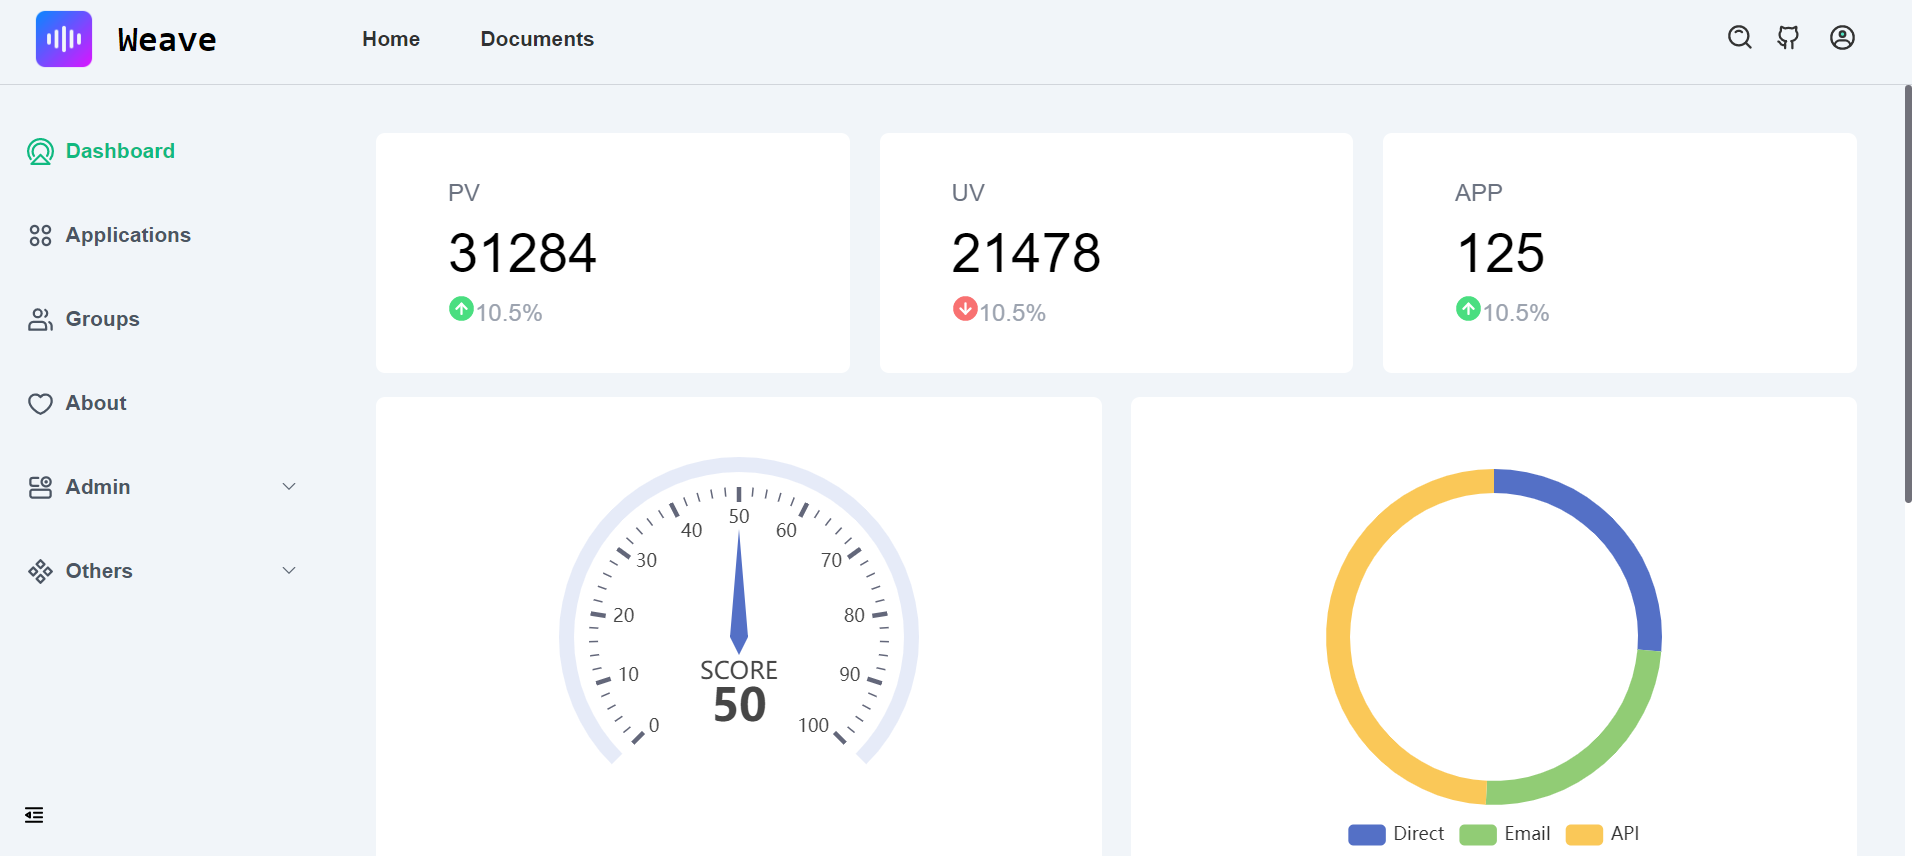
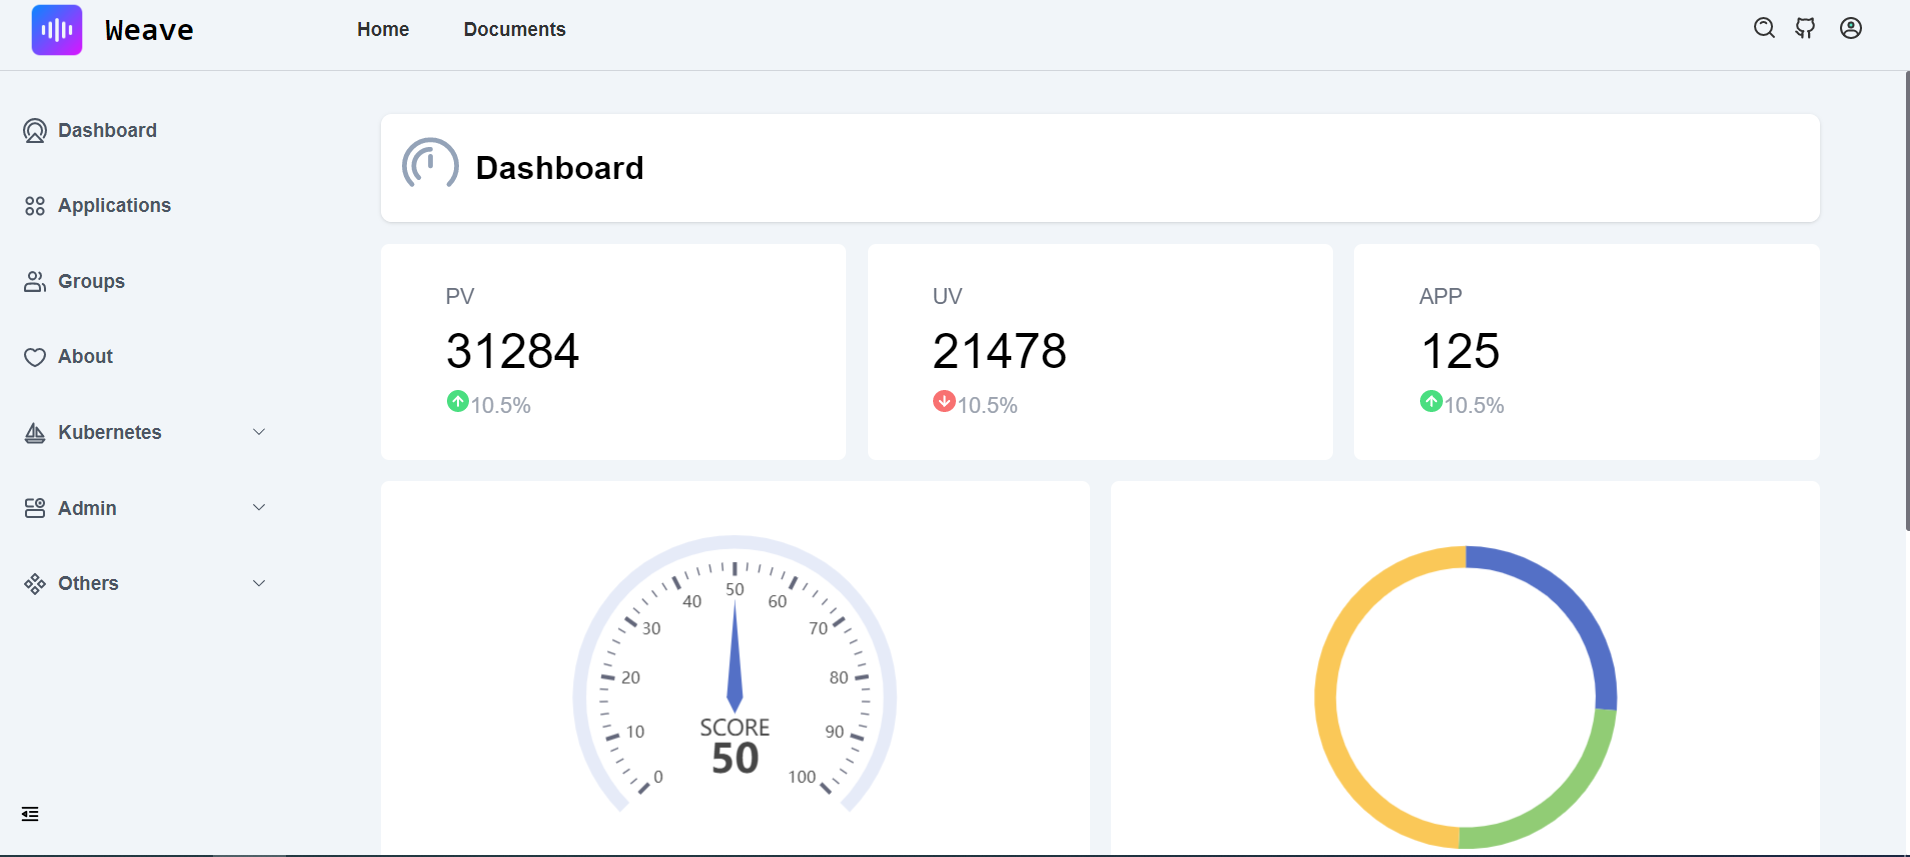
udapte some styles and doc

diff --git a/web/src/views/Dashboard.vue b/web/src/views/Dashboard.vue
@@ -1,33 +1,48 @@
 <template>
-  <div class="flex flex-wrap w-full h-full p-2rem pb-5rem justify-between">
-    <div class="w-32/100 h-10rem bg-white rounded-md mb-1rem" v-for="(item) in cards" :key="item.name">
-      <div class="flex w-full h-full px-3rem items-center">
-        <div class="flex-col w-6/10">
-          <div class="text-gray-500">{{ item.name }}</div>
-          <div class="text-4xl text-bold my-0.5rem">{{ item.value }}</div>
-          <div class="inline-flex items-center">
-              <arrow-circle-up v-if="item.up" theme="filled" size="18" fill="#4ade80"/>
-              <arrow-circle-down v-else theme="filled" size="18" fill="#f87171"/>
-              <span class="text-gray-400">{{ item.delta }}</span>
-          </div>
-        </div>
-        <div class="w-4/10  text-center">
-          <component :is="item.icon" theme="outline" size="48" :fill="item.iconColor" />
+  <div class="flex w-full">
+    <div class="flex flex-col w-full px-4rem py-2rem space-y-1rem">
+
+      <div class="flex overflow-hidden rounded-lg shadow">
+        <div class="flex w-full h-5rem bg-white items-center">
+          <Dashboard class="ml-1rem" theme="filled" size="42" fill="#94A3B8" />
+          <span class="m-0.75rem text-2xl font-600">Dashboard</span>
         </div>
       </div>
+      
+      <div class="flex w-full space-x-1rem">
+        <div class="flex w-1/3 h-10rem bg-white rounded-md" v-for="(item) in cards" :key="item.name">
+          <div class="flex w-full h-full px-3rem items-center">
+            <div class="flex-col w-6/10">
+              <div class="text-gray-500">{{ item.name }}</div>
+              <div class="text-4xl text-bold my-0.5rem">{{ item.value }}</div>
+              <div class="inline-flex items-center">
+                <arrow-circle-up v-if="item.up" theme="filled" size="18" fill="#4ade80" />
+                <arrow-circle-down v-else theme="filled" size="18" fill="#f87171" />
+                <span class="text-gray-400">{{ item.delta }}</span>
+              </div>
+            </div>
+            <div class="w-4/10 text-center">
+              <component :is="item.icon" theme="outline" size="48" :fill="item.iconColor" />
+            </div>
+          </div>
+        </div>
+      </div>
+
+      <div class="flex w-full space-x-1rem">
+        <div class="w-1/2 h-20rem bg-white rounded-md">
+          <v-chart class="w-full h-full" :option="gaugeOption" />
+        </div>
+
+        <div class="w-1/2 h-20rem bg-white rounded-md">
+          <v-chart class="w-full h-full" :option="pieOption" />
+        </div>
+      </div>
+
+      <div class="flex w-full h-20rem bg-white rounded-md">
+        <v-chart class="w-full h-full" :option="lineOption" />
+      </div>
+
     </div>
-
-    <div class="w-49/100 h-20rem bg-white rounded-md mb-1rem">
-      <v-chart class="w-full h-full" :option="gaugeOption" />
-     </div>
-
-     <div class="w-49/100 h-20rem bg-white rounded-md mb-1rem">
-      <v-chart class="w-full h-full" :option="pieOption" />
-     </div>
-
-    <div class="w-full h-20rem bg-white rounded-md mb-1rem">
-      <v-chart class="w-full h-full" :option="lineOption" />
-     </div>
   </div>
 </template>
 
@@ -46,8 +61,7 @@ import {
 } from "echarts/components";
 import VChart from "vue-echarts";
 import { ref } from "vue";
-import { Peoples, ArrowCircleUp, ArrowCircleDown } from '@icon-park/vue-next'
-import { IconPark } from '@icon-park/vue-next/es/all';
+import { ArrowCircleUp, ArrowCircleDown, Dashboard } from '@icon-park/vue-next'
 
 use([
   CanvasRenderer,
@@ -102,12 +116,12 @@ const lineOption = ref({
     {
       data: [150, 470, 392, 218, 135, 248, 290],
       type: 'line',
-      name: 'This Week' 
+      name: 'This Week'
     },
     {
       data: [234, 360, 410, 326, 291, 310, 341],
       type: 'line',
-      name: 'Last Week' 
+      name: 'Last Week'
     },
   ]
 });

diff --git a/web/src/views/kube/Namespace.vue b/web/src/views/kube/Namespace.vue
@@ -1,6 +1,6 @@
 <template>
   <div class="w-full flex justify-center">
-    <div class="flex flex-col w-full h-full mx-4rem my-2rem space-y-1rem">
+    <div class="flex flex-col w-full h-full px-4rem py-2rem space-y-1rem">
 
       <div class="flex overflow-hidden rounded-lg shadow-lg">
         <div class="flex w-full h-5rem bg-white items-center">
@@ -33,7 +33,7 @@
             </template>
           </el-dialog>
         </template>
-        <el-table :data="filter" class="w-full max-h-full">
+        <el-table :data="getItems(filter)" class="w-full max-h-full">
           <el-table-column prop="metadata.name" label="Name" />
           <el-table-column prop="metadata.labels['weave.io/group']" label="Group" />
           <el-table-column prop="metadata.annotations['weave.io/describe']" label="Describe" />
@@ -54,6 +54,15 @@
             </template>
           </el-table-column>
         </el-table>
+        <div class="flex w-full justify-center">
+          <el-pagination
+            :page-size="pageSize"
+            :pager-count="5"
+            layout="prev, pager, next"
+            :total="filter.length"
+            @current-change="currentPageChanged"
+          />
+        </div>
       </el-card>
     </div>
   </div>
@@ -77,14 +86,25 @@ const showCreate = ref(false);
 const showDelete = ref(-1);
 const newNamespace = ref({});
 
+const pageSize = ref(10);
+const currentPage = ref(1);
 const search = ref('');
 const filter = computed(() =>
   namespaces.value.filter(
-    (data) =>
-      !search.value ||
+    (data) => {
+      return !search.value ||
       data.metadata.name.toLowerCase().includes(search.value.toLowerCase())
+    }
   )
 )
+
+const getItems = (arr) => {
+  return arr.slice(pageSize.value * (currentPage.value - 1), pageSize.value * currentPage.value)
+}
+
+const currentPageChanged = (current) => {
+  currentPage.value = current
+}
 
 onMounted(
   () => {

diff --git a/web/src/views/kube/Pod.vue b/web/src/views/kube/Pod.vue
@@ -8,7 +8,7 @@
             <CodeEditor height="60vh" :value="logs" mode="log" readOnly light></CodeEditor>
         </el-dialog>
 
-        <div class="flex flex-col h-full mx-4rem my-2rem space-y-1rem">
+        <div class="flex flex-col h-full px-4rem py-2rem space-y-1rem">
             <div class="flex flex-col overflow-hidden rounded-lg shadow-lg">
                 <div class="flex w-full h-5rem bg-white items-center">
                     <CubeThree class="ml-1rem" theme="filled" size="42" fill="#94A3B8" />
@@ -147,6 +147,7 @@ const execPod = (row) => {
 const showLog = ref(false);
 const logs = ref();
 const logPod = (row) => {
+  logs.value = "";
   request.get(`/api/v1/namespaces/${currentNamespace.value}/pods/${row.metadata.name}/log`).then((response) => {
     logs.value = response.data
   })

diff --git a/web/src/views/kube/Service.vue b/web/src/views/kube/Service.vue
@@ -19,7 +19,7 @@
             </template>
         </el-dialog>
 
-        <div class="flex flex-col h-full mx-4rem my-2rem space-y-1rem">
+        <div class="flex flex-col h-full px-4rem py-2rem space-y-1rem">
             <div class="flex flex-col overflow-hidden rounded-lg shadow-lg">
                 <div class="flex w-full h-5rem bg-white items-center">
                     <CircularConnection class="ml-1rem" theme="filled" size="42" fill="#94A3B8" />

diff --git a/web/src/views/kube/Workload.vue b/web/src/views/kube/Workload.vue
@@ -10,7 +10,7 @@
             </template>
         </el-dialog>
 
-        <div class="flex flex-col h-full mx-4rem my-2rem space-y-1rem">
+        <div class="flex flex-col h-full px-4rem py-2rem space-y-1rem">
             <div class="flex flex-col overflow-hidden rounded-lg shadow-lg">
                 <div class="flex w-full h-5rem bg-white items-center">
                     <application-one class="ml-1rem" theme="filled" size="42" fill="#94A3B8" />

diff --git a/web/src/views/kube/Ingress.vue b/web/src/views/kube/Ingress.vue
@@ -19,7 +19,7 @@
             </template>
         </el-dialog>
 
-        <div class="flex flex-col h-full mx-4rem my-2rem space-y-1rem">
+        <div class="flex flex-col h-full px-4rem py-2rem space-y-1rem">
             <div class="flex flex-col overflow-hidden rounded-lg shadow-lg">
                 <div class="flex w-full h-5rem bg-white items-center">
                     <NetworkDrive class="ml-1rem" theme="filled" size="42" fill="#94A3B8" />

diff --git a/web/src/views/UserDetail.vue b/web/src/views/UserDetail.vue
@@ -1,6 +1,6 @@
 <template>
   <div class="w-full h-full flex justify-center">
-    <div class="flex flex-col w-full mx-4rem my-2rem space-y-1rem">
+    <div class="flex flex-col w-full px-4rem py-2rem space-y-1rem">
       <div class="flex flex-col overflow-hidden rounded-lg shadow-lg">
         <div class="flex w-full h-5rem bg-white items-center">
           <User class="ml-1rem" theme="filled" size="42" fill="#94A3B8" />

diff --git a/web/src/views/RBAC.vue b/web/src/views/RBAC.vue
@@ -1,6 +1,6 @@
 <template>
   <div class="w-full justify-center">
-    <div class="flex flex-col h-full mx-4rem my-2rem space-y-1rem">
+    <div class="flex flex-col h-full px-4rem py-2rem space-y-1rem">
       <div class="flex flex-col overflow-hidden rounded-lg shadow-lg">
         <div class="flex w-full h-5rem bg-white items-center">
           <ListView class="ml-1rem" theme="filled" size="42" fill="#94A3B8" />

diff --git a/web/src/components/Group.vue b/web/src/components/Group.vue
@@ -1,6 +1,6 @@
 <template>
   <div class="w-full flex justify-center">
-    <div class="flex flex-col w-full h-full mx-4rem my-2rem space-y-1rem">
+    <div class="flex flex-col w-full h-full px-4rem py-2rem space-y-1rem">
       
       <div class="flex overflow-hidden rounded-lg shadow-lg">
         <div class="flex w-full h-5rem bg-white items-center">

diff --git a/web/src/views/User.vue b/web/src/views/User.vue
@@ -1,6 +1,6 @@
 <template>
   <div class="w-full flex justify-center">
-    <div class="flex flex-col w-full h-full mx-4rem my-2rem space-y-1rem">
+    <div class="flex flex-col w-full h-full px-4rem py-2rem space-y-1rem">
       
       <div class="flex overflow-hidden rounded-lg shadow-lg">
         <div class="flex w-full h-5rem bg-white items-center">

diff --git a/web/src/views/Application.vue b/web/src/views/Application.vue
@@ -40,7 +40,7 @@
       </template>
     </el-dialog>
 
-    <div class="flex flex-col w-full h-full mx-4rem my-2rem space-y-1rem">
+    <div class="flex flex-col w-full h-full px-4rem py-2rem space-y-1rem">
 
       <div class="flex overflow-hidden rounded-lg shadow-lg">
         <div class="flex w-full h-5rem bg-white items-center">

diff --git a/web/src/views/GroupDetail.vue b/web/src/views/GroupDetail.vue
@@ -1,6 +1,6 @@
 <template>
   <div class="flex w-full justify-center">
-    <div class="flex flex-col w-full mx-4rem my-2rem h-max justify-center">
+    <div class="flex flex-col w-full px-4rem py-2rem h-max justify-center">
       <el-card class="w-full">
       <template #header>
         <div class="flex w-full items-center">
